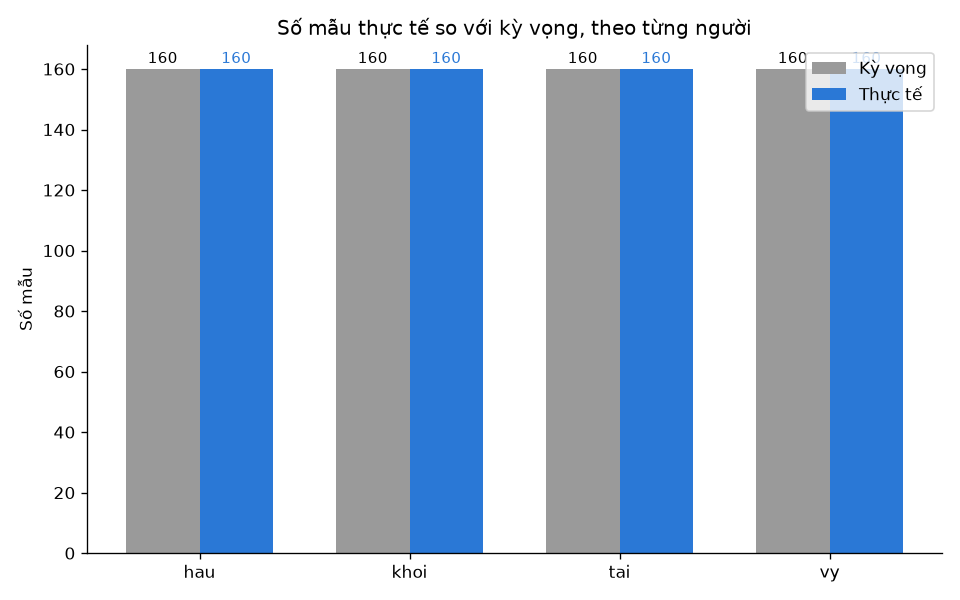
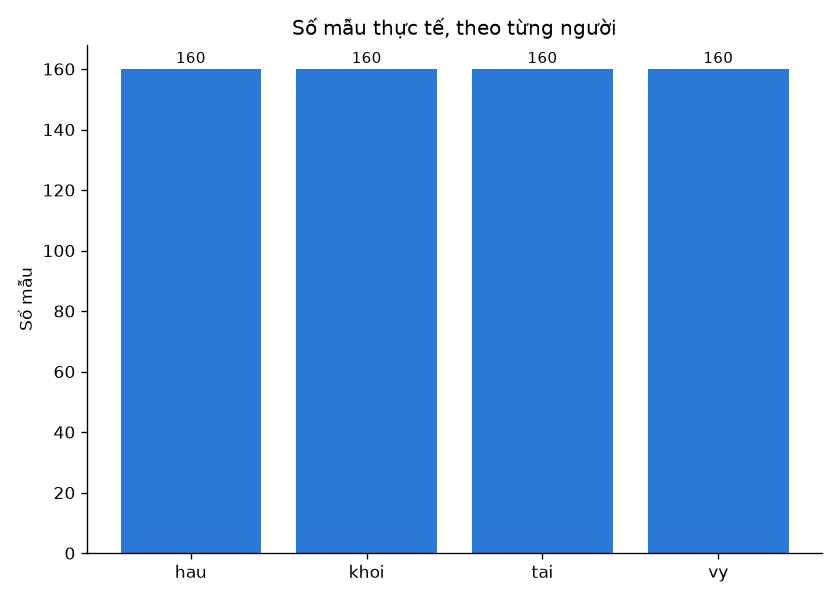
update: eda

diff --git a/eda.py b/eda.py
@@ -53,63 +53,48 @@ def load_all():
 
 
 def bieu_do_so_luong(records):
-    """So sánh số mẫu thực tế và kỳ vọng, theo từng người."""
+    """Số mẫu thực tế theo từng người."""
     persons = sorted(set(r["person"] for r in records))
     count = defaultdict(int)
     for r in records:
         count[(r["code"], r["person"])] += 1
 
     tong_thuc_te = {p: 0 for p in persons}
-    tong_ky_vong = {p: 0 for p in persons}
     for code in ALL_CLASSES:
-        ky_vong_moi_nguoi = samples_for(code, "A") + samples_for(code, "B")
         for p in persons:
             tong_thuc_te[p] += count[(code, p)]
-            tong_ky_vong[p] += ky_vong_moi_nguoi
 
     x = np.arange(len(persons))
-    w = 0.35
-    fig, ax = plt.subplots(figsize=(8, 5))
-    ax.bar(x - w / 2, [tong_ky_vong[p] for p in persons], width=w,
-           label="Kỳ vọng", color=MAU_XAM)
-    ax.bar(x + w / 2, [tong_thuc_te[p] for p in persons], width=w,
-           label="Thực tế", color=MAU_XANH)
-    for i, p in enumerate(persons):
-        ax.text(i - w / 2, tong_ky_vong[p] + 2, str(tong_ky_vong[p]), ha="center", fontsize=9)
-        ax.text(i + w / 2, tong_thuc_te[p] + 2, str(tong_thuc_te[p]), ha="center", fontsize=9,
-                color=MAU_XANH if tong_thuc_te[p] == tong_ky_vong[p] else "#e34948")
+    fig, ax = plt.subplots(figsize=(7, 5))
+    bars = ax.bar(x, [tong_thuc_te[p] for p in persons], color=MAU_XANH)
+    for b, p in zip(bars, persons):
+        ax.text(b.get_x() + b.get_width() / 2, tong_thuc_te[p] + 2,
+                 str(tong_thuc_te[p]), ha="center", fontsize=9)
     ax.set_xticks(x)
     ax.set_xticklabels(persons)
     ax.set_ylabel("Số mẫu")
-    ax.set_title("Số mẫu thực tế so với kỳ vọng, theo từng người")
-    ax.legend(loc="upper right")
+    ax.set_title("Số mẫu thực tế, theo từng người")
     ax.spines[["top", "right"]].set_visible(False)
     fig.tight_layout()
     fig.savefig(OUT_DIR / "01_so_luong_mau.png", dpi=120)
     plt.close(fig)
 
-    # Chi tiết các tổ hợp (lớp, người) bị lệch so với kỳ vọng
-    lech = []
+    # Số mẫu thực tế theo từng tổ hợp (lớp, người)
+    labels = []
+    values = []
     for code in ALL_CLASSES:
-        ky_vong = samples_for(code, "A") + samples_for(code, "B")
         for p in persons:
-            thuc_te = count[(code, p)]
-            if thuc_te != ky_vong:
-                lech.append((f"{display_name(code)} / {p}", thuc_te - ky_vong))
-    if lech:
-        lech.sort(key=lambda x: x[1])
-        labels = [x[0] for x in lech]
-        values = [x[1] for x in lech]
-        fig, ax = plt.subplots(figsize=(9, max(3, 0.35 * len(lech))))
-        colors = [MAU_CAM if v < 0 else MAU_XANH for v in values]
-        ax.barh(labels, values, color=colors)
-        ax.axvline(0, color="black", linewidth=0.8)
-        ax.set_xlabel("Chênh lệch so với kỳ vọng (âm = thiếu, dương = thừa)")
-        ax.set_title("Các tổ hợp (lớp, người) lệch số mẫu so với kỳ vọng")
-        ax.spines[["top", "right"]].set_visible(False)
-        fig.tight_layout()
-        fig.savefig(OUT_DIR / "02_lech_so_mau.png", dpi=120)
-        plt.close(fig)
+            labels.append(f"{display_name(code)} / {p}")
+            values.append(count[(code, p)])
+
+    fig, ax = plt.subplots(figsize=(9, max(3, 0.28 * len(labels))))
+    ax.barh(labels, values, color=MAU_XANH)
+    ax.set_xlabel("Số mẫu thực tế")
+    ax.set_title("Số mẫu thực tế theo từng tổ hợp (lớp, người)")
+    ax.spines[["top", "right"]].set_visible(False)
+    fig.tight_layout()
+    fig.savefig(OUT_DIR / "02_so_mau_theo_to_hop.png", dpi=120)
+    plt.close(fig)
 
 
 def bieu_do_chat_luong(records):
@@ -289,8 +274,8 @@ def main():
     bieu_do_theo_nguoi(records)
 
     print(f"Đã lưu toàn bộ biểu đồ vào thư mục: {OUT_DIR.resolve()}")
-    print("  01_so_luong_mau.png          — số mẫu thực tế vs kỳ vọng")
-    print("  02_lech_so_mau.png           — chi tiết tổ hợp (lớp, người) bị lệch (nếu có)")
+    print("  01_so_luong_mau.png          — tổng số mẫu thực tế theo người")
+    print("  02_so_mau_theo_to_hop.png    — số mẫu thực tế theo từng tổ hợp (lớp, người)")
     print("  03_chat_luong_du_lieu.png    — phân bố mất tay + tổng hợp lỗi")
     print("  04_khoang_gia_tri_toa_do.png — toạ độ vượt khung hình, theo người")
     print("  05_nang_luong_chuyen_dong.png— tĩnh vs động, bằng chứng chọn LSTM/Bi-LSTM")
